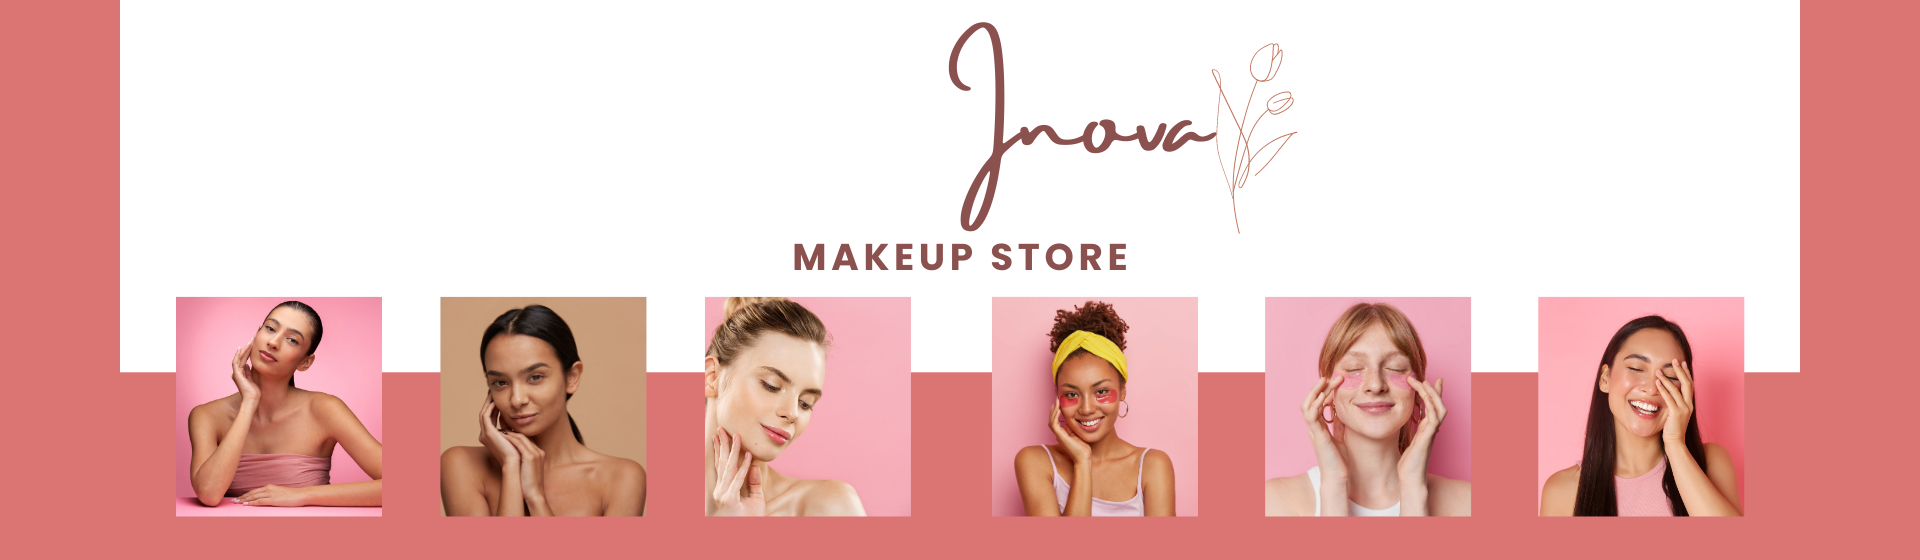
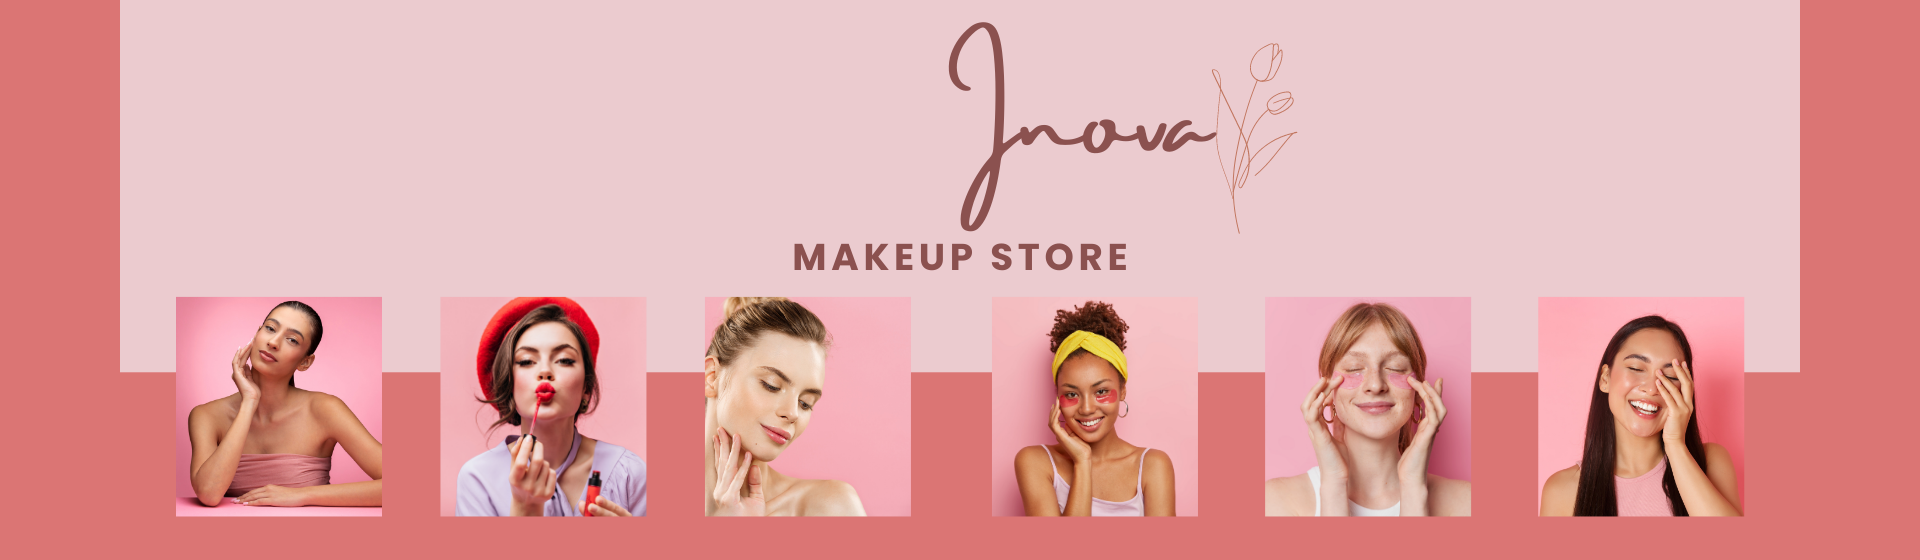
adicionando carrousel

diff --git a/index.html b/index.html
@@ -7,21 +7,24 @@
   <meta name="viewport" content="width=device-width, initial-scale=1.0" />
   <title>Inova Makeup</title>
   <link rel="stylesheet" href="/styles/style.css" />
+  <link rel="stylesheet" href="/styles/reset.css">
   <link rel="preconnect" href="https://fonts.googleapis.com" />
   <link rel="preconnect" href="https://fonts.gstatic.com" crossorigin />
   <link
     href="https://fonts.googleapis.com/css2?family=Nunito+Sans:ital,wght@0,200;0,300;0,400;0,600;0,700;0,800;0,900;1,900&display=swap"
     rel="stylesheet" />
+  <link href="https://cdn.jsdelivr.net/npm/bootstrap@5.3.0/dist/css/bootstrap.min.css" rel="stylesheet"
+    integrity="sha384-9ndCyUaIbzAi2FUVXJi0CjmCapSmO7SnpJef0486qhLnuZ2cdeRhO02iuK6FUUVM" crossorigin="anonymous">
 </head>
 
-<body>
+<body id="body">
   <header class="cabecalho">
     <nav class="cabecalho__container">
       <a href="#"><img src="img/person 1.png" class="icones" alt="Minha conta" /></a>
       <img src="img/wepik-organic-logo-20230519184815kCJF.png" class="icon-marca" alt="Logotipo Inova Makeup" />
       <a href="#"><img src="img/sacolas-de-compras 1.png" class="icones" alt="Sacola de compras" /></a>
     </nav>
-    <hr>
+    <hr id="cabecalho-divisao">
     <ul class="cabecalho__container__itens">
       <li><a href="#">Pele</a></li>
       <li><a href="#">Olhos</a></li>
@@ -31,10 +34,44 @@
     </ul>
   </header>
   <main class="apresentacao__container">
-      <!-- Criar carrousel-->
-      <div class="imagem-container">
-      <a href="#"><img class="banner1" src="img/4.png" id="banner-ponteiro" /></a>
+    <!-- Inicio do carrousel-->
+    <div id="carouselExampleIndicators" class="carousel slide" data-bs-ride="carousel" data-interval="2000">
+      <div class="carousel-indicators">
+        <button type="button" data-bs-target="#carouselExampleIndicators" data-bs-slide-to="0" class="active"
+          aria-current="true" aria-label="Slide 1"></button>
+        <button type="button" data-bs-target="#carouselExampleIndicators" data-bs-slide-to="1"
+          aria-label="Slide 2"></button>
+        <button type="button" data-bs-target="#carouselExampleIndicators" data-bs-slide-to="2"
+          aria-label="Slide 3"></button>
+        <button type="button" data-bs-target="#carouselExampleIndicators" data-bs-slide-to="3"
+          aria-label="Slide 4"></button>
       </div>
+      <div class="carousel-inner">
+        <div class="carousel-item active">
+          <a href="#"><img src="img/3.png" class="d-block w-100"></a>
+        </div>
+        <div class="carousel-item">
+          <a href="#"><img src="img/2.png" class="d-block w-100"></a>
+        </div>
+        <div class="carousel-item">
+          <a href="#"><img src="img/1.png" class="d-block w-100"></a>
+        </div>
+        <div class="carousel-item">
+          <a href="#"><img src="img/4.png" class="d-block w-100"></a>
+        </div>
+      </div>
+      <button class="carousel-control-prev" type="button" data-bs-target="#carouselExampleIndicators"
+        data-bs-slide="prev">
+        <span class="carousel-control-prev-icon" aria-hidden="true"></span>
+        <span class="visually-hidden">Previous</span>
+      </button>
+      <button class="carousel-control-next" type="button" data-bs-target="#carouselExampleIndicators"
+        data-bs-slide="next">
+        <span class="carousel-control-next-icon" aria-hidden="true"></span>
+        <span class="visually-hidden">Next</span>
+      </button>
+    </div>
+    <!--Fim do carrousel-->
     <div class="apresentacao__container__produtos">
       <h2 class="titulo__produtos">Confira nossos produtos</h2>
       <ul class="lista__produtos">
@@ -65,7 +102,7 @@
         </li>
       </ul>
     </div>
-    <div class="apresentacao__container__peles" >
+    <div class="apresentacao__container__peles">
       <h2 class="titulo__peles">Qual combina com você?</h2>
       <p class="texto__peles">Encontre as melhores maquiagens para o seu tom de pele</p>
       <div class="imagens-peles">
@@ -75,6 +112,7 @@
         <a href="#"><img class="peles" src="img/Rectangle 60.png"></a>
       </div>
     </div>
+
   </main>
   <footer class="rodape__container">
 
@@ -99,6 +137,10 @@
     </p>
     <p class="rodape__container__texto">Images by Freepik</p>
   </footer>
+
+  <script src="https://cdn.jsdelivr.net/npm/bootstrap@5.3.0/dist/js/bootstrap.bundle.min.js"
+    integrity="sha384-geWF76RCwLtnZ8qwWowPQNguL3RmwHVBC9FhGdlKrxdiJJigb/j/68SIy3Te4Bkz"
+    crossorigin="anonymous"></script>
 </body>
 
 </html>

diff --git a/styles/style.css b/styles/style.css
@@ -7,20 +7,15 @@
   --fonte-primaria: "Nunito Sans", sans-serif;
 }
 
-* {
-  margin: 0;
-  padding: 0;
-}
-
-body {
+#body {
   font-family: var(--fonte-primaria);
   background: var(--cor-fundo);
 }
 
 .cabecalho__container {
   display: flex;
-  justify-content: space-evenly;
-  padding: 0.3em 2em 1em;
+  justify-content: space-between;
+  padding: 0.3em 4em 0;
   align-items: center;
 }
 
@@ -29,14 +24,14 @@ body {
   height: 30px;
 }
 
-.icon-marca{
+.icon-marca {
   width: 15%;
   height: auto;
 }
 
-hr {
+#cabecalho-divisao{
   border: none;
-  border-top: 1px solid #DDDDDD;
+  border-top: 1px solid #515050;
   padding: 0.3em 0;
 }
 
@@ -45,7 +40,6 @@ hr {
   justify-content: space-around;
   text-transform: uppercase;
   list-style: none;
-  padding: 1em;
 }
 
 .cabecalho__container__itens a {
@@ -59,7 +53,7 @@ hr {
   font-weight: 700;
 }
 
-#banner-ponteiro{
+#banner-ponteiro {
   cursor: pointer;
 }
 
@@ -104,23 +98,23 @@ hr {
   display: block;
 }
 
-.titulo__peles{
+.titulo__peles {
   font-weight: 200;
   font-size: 40px;
   color: var(--cor-titulo);
   text-transform: uppercase;
   text-align: center;
-  margin:1em 0 0.5em;
+  margin: 1em 0 0.5em;
 }
 
-.texto__peles{
+.texto__peles {
   font-size: 16px;
   font-weight: 400;
   color: var(--cor-texto);
   text-align: center;
 }
 
-.imagens-peles{
+.imagens-peles {
   display: flex;
   justify-content: space-around;
   align-items: center;
@@ -158,8 +152,4 @@ hr {
   padding: 1em;
 }
 
-@media screen  and (max-width: 768px){
-
-
-  
-}
+@media screen and (max-width: 768px) {}

diff --git a/styles/reset.css b/styles/reset.css
@@ -1,0 +1,48 @@
+/* http://meyerweb.com/eric/tools/css/reset/ 
+   v2.0 | 20110126
+   License: none (public domain)
+*/
+
+html, body, div, span, applet, object, iframe,
+h1, h2, h3, h4, h5, h6, p, blockquote, pre,
+a, abbr, acronym, address, big, cite, code,
+del, dfn, em, img, ins, kbd, q, s, samp,
+small, strike, strong, sub, sup, tt, var,
+b, u, i, center,
+dl, dt, dd, ol, ul, li,
+fieldset, form, label, legend,
+table, caption, tbody, tfoot, thead, tr, th, td,
+article, aside, canvas, details, embed, 
+figure, figcaption, footer, header, hgroup, 
+menu, nav, output, ruby, section, summary,
+time, mark, audio, video {
+	margin: 0;
+	padding: 0;
+	border: 0;
+	font-size: 100%;
+	font: inherit;
+	vertical-align: baseline;
+}
+/* HTML5 display-role reset for older browsers */
+article, aside, details, figcaption, figure, 
+footer, header, hgroup, menu, nav, section {
+	display: block;
+}
+body {
+	line-height: 1;
+}
+ol, ul {
+	list-style: none;
+}
+blockquote, q {
+	quotes: none;
+}
+blockquote:before, blockquote:after,
+q:before, q:after {
+	content: '';
+	content: none;
+}
+table {
+	border-collapse: collapse;
+	border-spacing: 0;
+}
